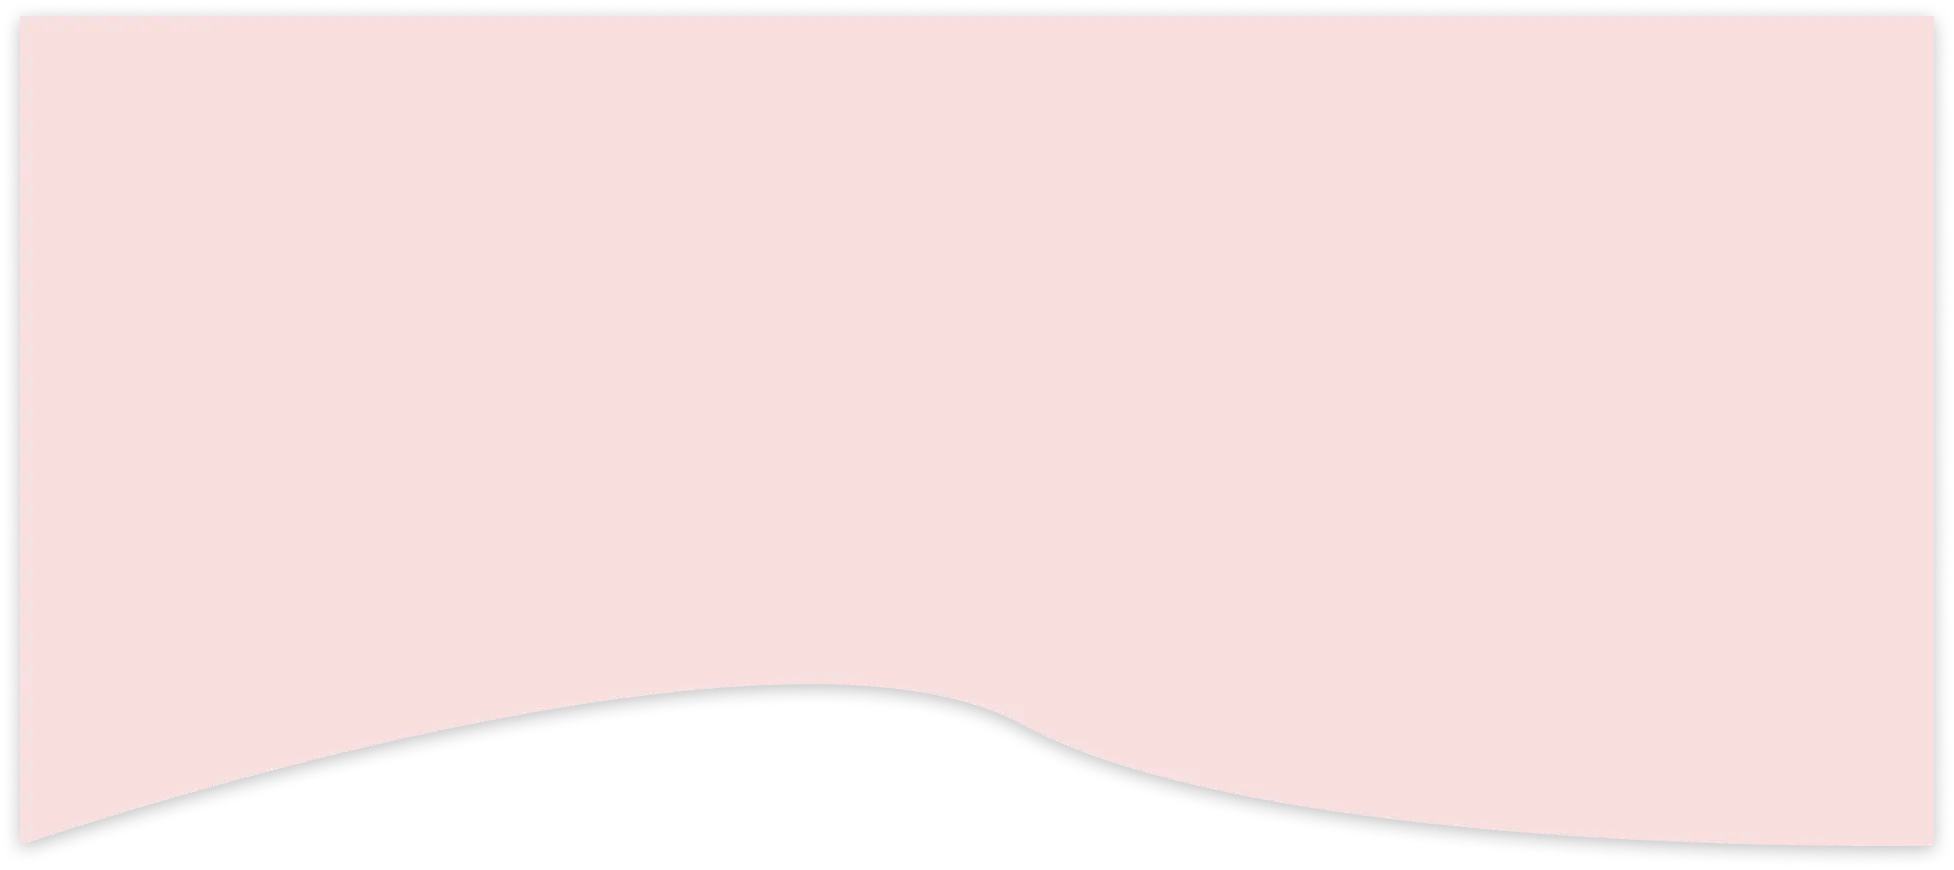
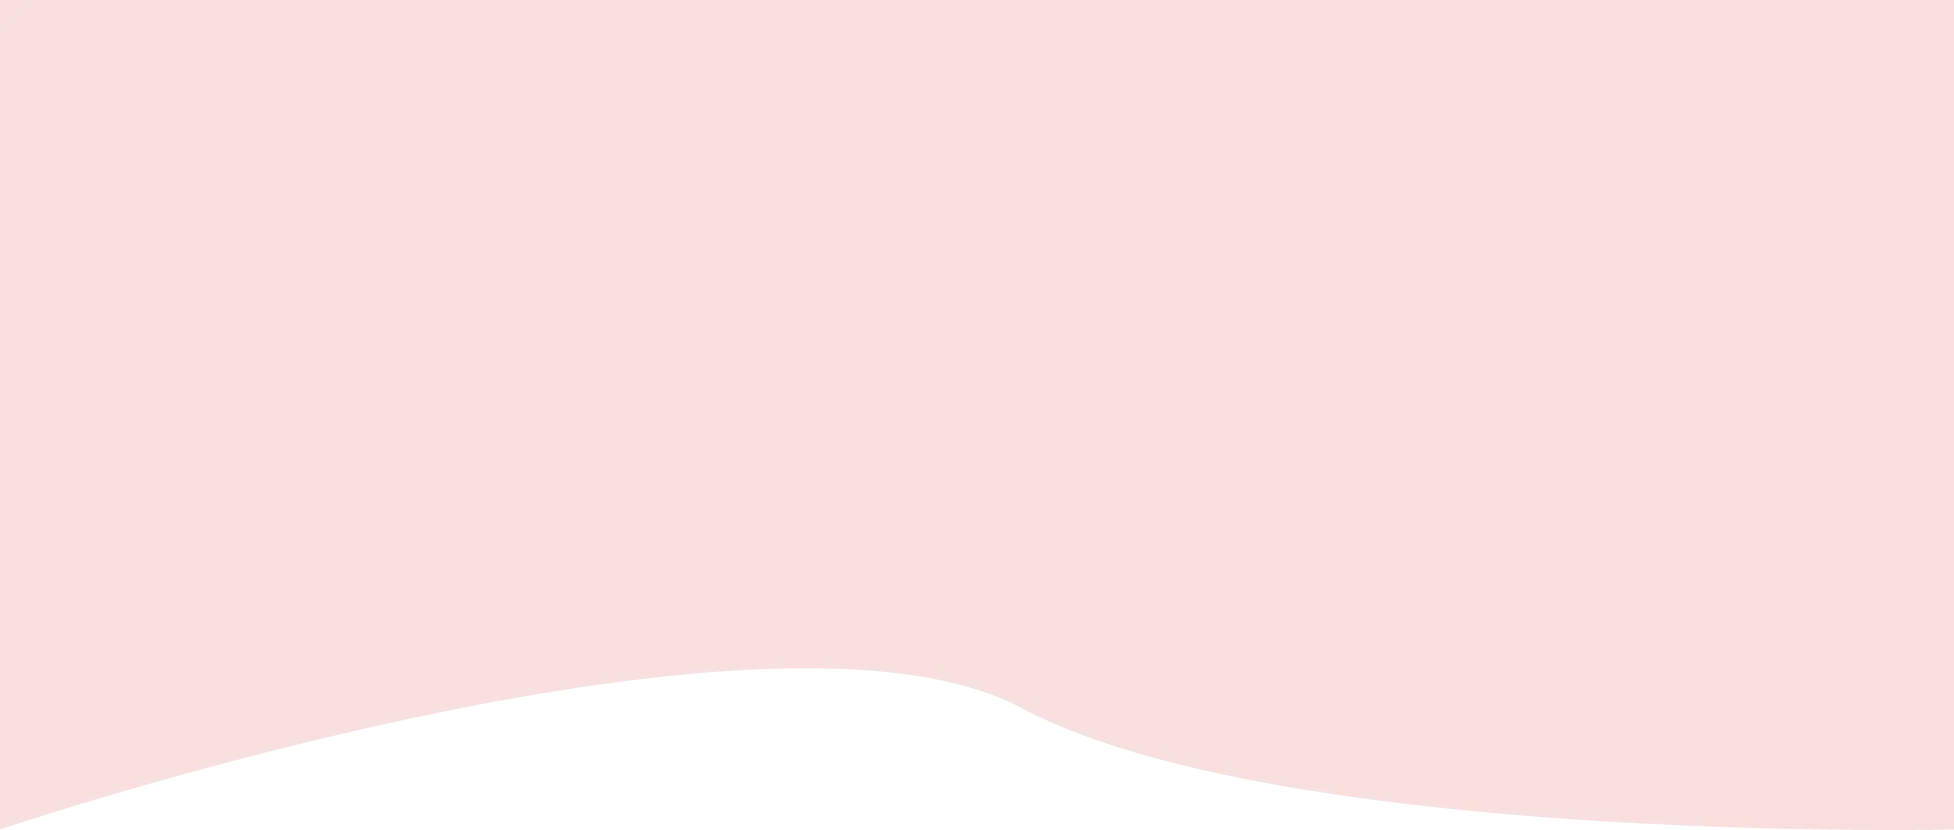
update

diff --git a/index.html b/index.html
@@ -113,7 +113,7 @@
                     </footer>
                 </div>
                 <footer class="welcome-wrapper__footer">
-                    <a href="./images/original/sauna.jpg" class="welcome-wrapper__footer__sauna" target="_blank" aria-label="Obrázek sauny">
+                    <a href="./images/original/sauna.jpg" class="welcome-wrapper__footer__sauna card--dark-zoom-hover" target="_blank" aria-label="Obrázek sauny">
                         <figure class="figure--corner">
                             <picture>
                                 <source srcset="./images/bckps/sauna.avif" type="image/avif">
@@ -123,7 +123,7 @@
                             <figcaption class="figure--corner__figpaction">Sauna</figcaption>
                         </figure>
                     </a>
-                    <a href="./images/original/main-hut_front.jpg" class="welcome-wrapper__footer__interactive-card" target="_blank" aria-label="Obrázek Chaty Alexandra">
+                    <a href="./images/original/main-hut_front.jpg" class="welcome-wrapper__footer__interactive-card card--dark-zoom-hover" target="_blank" aria-label="Obrázek Chaty Alexandra">
                         <figure class="figure--corner">
                             <picture>
                                 <source srcset="./images/bckps/main-hut_front.avif" type="image/avif">
@@ -133,7 +133,7 @@
                             <figcaption class="figure--corner__figpaction">Chata Alexandra</figcaption>
                         </figure>
                     </a>
-                    <a href="./images/original/main-hut_bckps.jpg" class="welcome-wrapper__footer__main-hut" target="_blank" aria-label="Obrázek Chaty Alexandra">
+                    <a href="./images/original/main-hut_bckps.jpg" class="welcome-wrapper__footer__main-hut card--dark-zoom-hover" target="_blank" aria-label="Obrázek Chaty Alexandra">
                         <figure class="figure--corner">
                             <picture>
                                 <source srcset="./images/bckps/main-hut_back.avif" type="image/avif">
@@ -143,7 +143,7 @@
                             <figcaption class="figure--corner__figpaction">Chata Alexandra</figcaption>
                         </figure>
                     </a>
-                    <a href="./images/original/common-room.jpg" class="welcome-wrapper__footer__common-room" target="_blank" aria-label="Obrázek společenské místnosti">
+                    <a href="./images/original/common-room.jpg" class="welcome-wrapper__footer__common-room card--dark-zoom-hover" target="_blank" aria-label="Obrázek společenské místnosti">
                         <figure class="figure--corner">
                             <picture>
                                 <source srcset="./images/bckps/common-room.avif" type="image/avif">

diff --git a/styles/layout.css b/styles/layout.css
@@ -11,6 +11,8 @@
 
 .page__header {
     /*effect jako mercuria jina barva header u scroll / pruhledne a pak zase normalni kdž je v normalu*/
+    box-shadow: 0 1px 6px var(--gray, #A09C9C);
+    z-index: 1;
 }
 
 /*contact-container*/
@@ -261,7 +263,7 @@
     flex-direction: column;
     background-position: center;
     background-size: cover;
-    background-image: url(../images/assets/original/welcome-image.png);
+    background-image: url(../images/assets/original/);
     background-image: -webkit-image-set(
         url(../images/assets/bckps/welcome-image.avif) type("image/avif"),
         url(../images/assets/bckps/welcome-image.webp) type("image/webp"),
@@ -275,12 +277,6 @@
     color: var(--primary, #512100);
     height: 290vh;
     height: 290dvh;
-}
-
-@media screen and (min-width: 1601px) {
-    .page__welcome {
-        background-size: 102.25%;
-    }
 }
 
 .welcome-wrapper {

diff --git a/styles/components.css b/styles/components.css
@@ -143,10 +143,23 @@
   left: 0;
   bottom: 0;
   padding: 1em 2em;
-  background-color: var(--semi-transparent-dark, rgba(0, 0, 0, 0.5));
   color: var(--white, #FFFFFF);
   font-size: 1.2em;
   font-weight: 400;
 }
 
 /*Cards*/
+
+/*Card - hover*/
+
+.card--dark-zoom-hover img, .card--dark-zoom-hover figure {
+  transition: .25s ease-in-out;
+}
+
+.card--dark-zoom-hover:hover img {
+  transform: scale(1.2);
+}
+
+.card--dark-zoom-hover:hover figure {
+  opacity: .75;
+}
